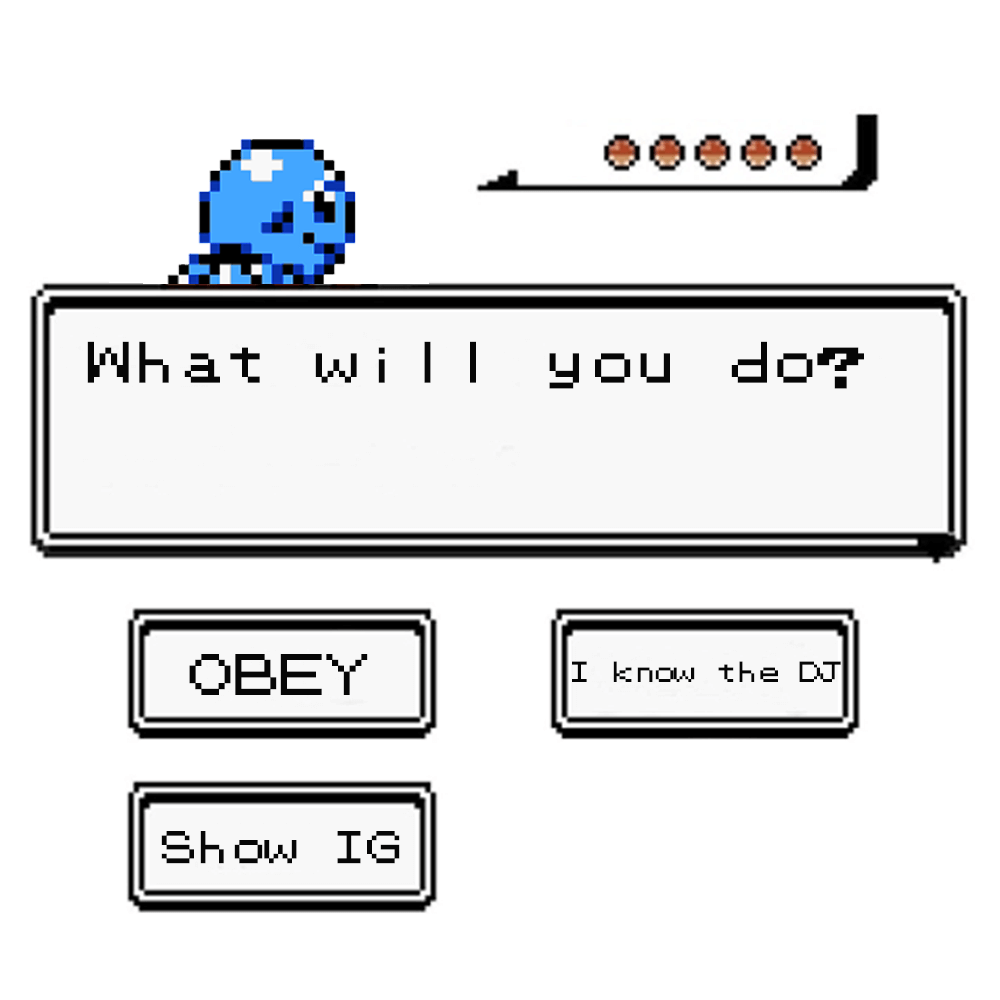
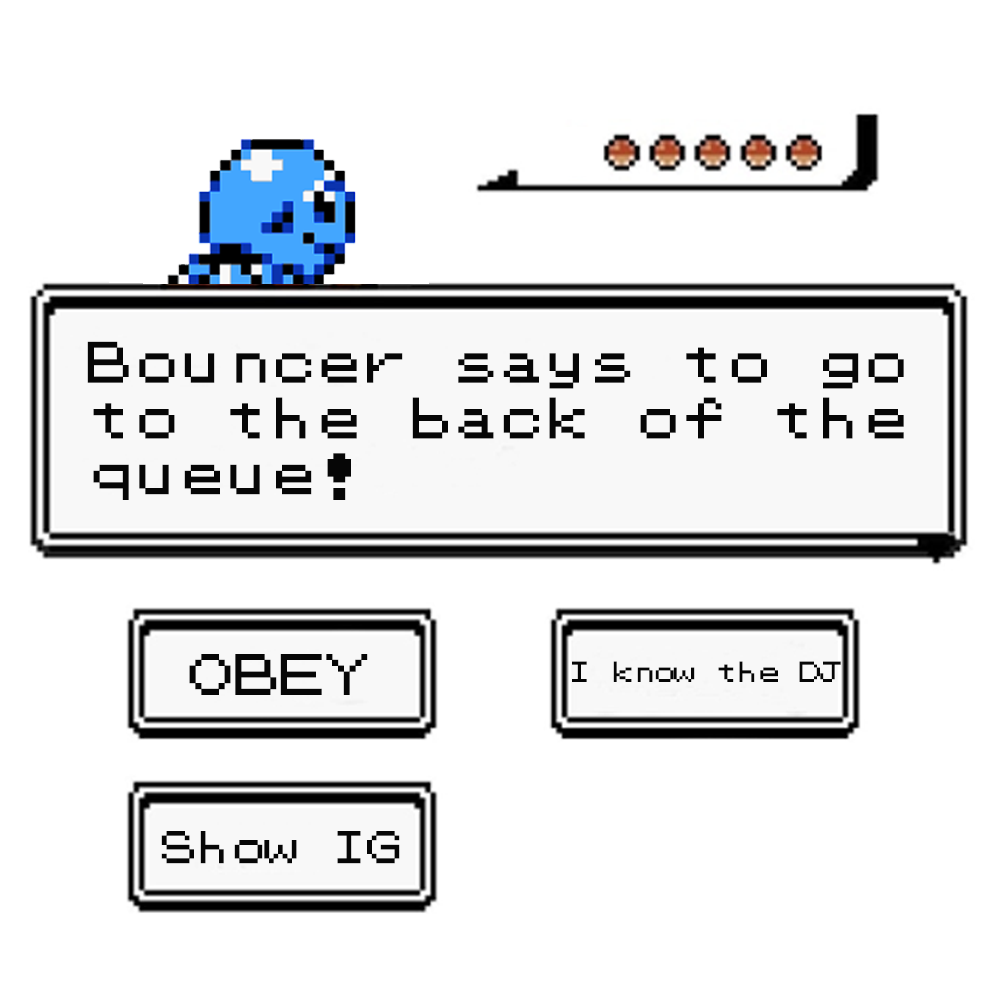
Add pop up to club

Changed region(s): [[0.093, 0.341, 0.589, 0.496], [0.589, 0.341, 0.899, 0.465]]

diff --git a/src/pages/Game/Backdrops/InsideClub.tsx b/src/pages/Game/Backdrops/InsideClub.tsx
@@ -1,15 +1,77 @@
-import { useContext } from 'react';
+import { useContext, useEffect, useState } from 'react';
 import arrow from '../../../assets/arrow.png';
 import insideClub from '../../../assets/inside-club.jpg';
 import { GameContext } from '../../../context/Game';
 import { Stage } from '../../../context/Game/types';
 import { Character } from '../components/Character';
-import { Backdrop, LeftButton } from '../styles/game.styles';
+import { Backdrop, DecisionOption, LeftButton } from '../styles/game.styles';
+import { PopUpDecision } from '../components/PopUpDecision';
+import popUp from '../../../assets/inside-club-pop-up.png';
+import firstOption from '../../../assets/go-chat.png';
+import secondOption from '../../../assets/wave-and-smile.png';
+import thirdOption from '../../../assets/keep-moving.png';
+import { HealthChange } from '../components/HealthChange';
 
 export const InsideClub = () => {
-  const { update } = useContext(GameContext);
+  const { update, health, hasCompletedClub } = useContext(GameContext);
+  const [showPopUp, setShowPopUp] = useState(false);
+  const [hpChange, setHpChange] = useState<number | null>(null);
+
+  useEffect(() => {
+    if (hasCompletedClub) return;
+    setTimeout(() => {
+      setShowPopUp(true);
+    }, 1000);
+  }, []);
+
+  const onClose = () => setShowPopUp(false);
+
+  const onFirstOptionClick = () => {
+    onClose();
+    setHpChange(1);
+    setTimeout(() => {
+      update({ health: health + 1, hasCompletedClub: true });
+    }, 1500);
+  };
+
+  const onSecondOptionClick = () => {
+    onClose();
+    setHpChange(-1);
+    setTimeout(() => {
+      update({ health: health - 1, hasCompletedClub: true });
+    }, 1500);
+  };
+
+  const onThirdOptionClick = () => {
+    onClose();
+    setHpChange(-2);
+    setTimeout(() => {
+      update({ health: health - 2, hasCompletedClub: true });
+    }, 1500);
+  };
+
   return (
     <>
+      {hpChange && <HealthChange healthChange={hpChange} />}
+      {showPopUp && (
+        <PopUpDecision backgroundSrc={popUp}>
+          <DecisionOption
+            onClick={onFirstOptionClick}
+            src={firstOption}
+            alt="go chat"
+          />
+          <DecisionOption
+            onClick={onSecondOptionClick}
+            src={secondOption}
+            alt="wave and smile"
+          />
+          <DecisionOption
+            onClick={onThirdOptionClick}
+            src={thirdOption}
+            alt="keep moving"
+          />
+        </PopUpDecision>
+      )}
       <LeftButton
         src={arrow}
         alt="left arrow"

diff --git a/src/pages/Game/Backdrops/OutsideClub.tsx b/src/pages/Game/Backdrops/OutsideClub.tsx
@@ -53,7 +53,7 @@ export const OutsideClub = () => {
         health: health - 2,
         hasAccessToClub: true,
       });
-    }, 1000);
+    }, 1500);
   };
 
   const onFirstOptionClick = () => {
@@ -66,7 +66,7 @@ export const OutsideClub = () => {
         health: health + 1,
         hasAccessToClub: true,
       });
-    }, 1000);
+    }, 1500);
   };
 
   const onSecondOptionClick = () => {
@@ -79,7 +79,7 @@ export const OutsideClub = () => {
         health: health - 1,
         hasAccessToClub: true,
       });
-    }, 1000);
+    }, 1500);
   };
 
   const onThirdOptionClick = () => {

diff --git a/src/pages/Game/components/HealthChange.tsx b/src/pages/Game/components/HealthChange.tsx
@@ -19,13 +19,17 @@ const moveHealth = () => keyframes`
 
 const HealthChangeText = styled.p<{ $color: string }>`
   font-family: Nokia;
-  font-size: 20px;
+  font-size: 28px;
   position: absolute;
   opacity: 0;
   color: ${(props) => props.$color};
   -webkit-text-stroke-width: 1px;
   -webkit-text-stroke-color: black;
-  animation: ${moveHealth} 1s ease;
+  animation: ${moveHealth} 1.5s ease;
+
+  @media screen and (max-device-width: 568px) {
+    font-size: 18px;
+  }
 `;
 
 export const HealthChange = ({ healthChange }: { healthChange: number }) => {

diff --git a/src/context/Game/GameContext.tsx b/src/context/Game/GameContext.tsx
@@ -8,6 +8,7 @@ export const defaultValues = {
   stage: Stage.LOGIN,
   mission: null,
   hasAccessToClub: false,
+  hasCompletedClub: false,
   // eslint-disable-next-line @typescript-eslint/no-empty-function
   update: () => {},
 };

diff --git a/src/context/Game/types.ts b/src/context/Game/types.ts
@@ -12,5 +12,6 @@ export type Game = {
   stage: Stage;
   mission: string | null;
   hasAccessToClub: boolean;
+  hasCompletedClub: boolean;
   update: (newGameState: Partial<Game>) => void;
 };
